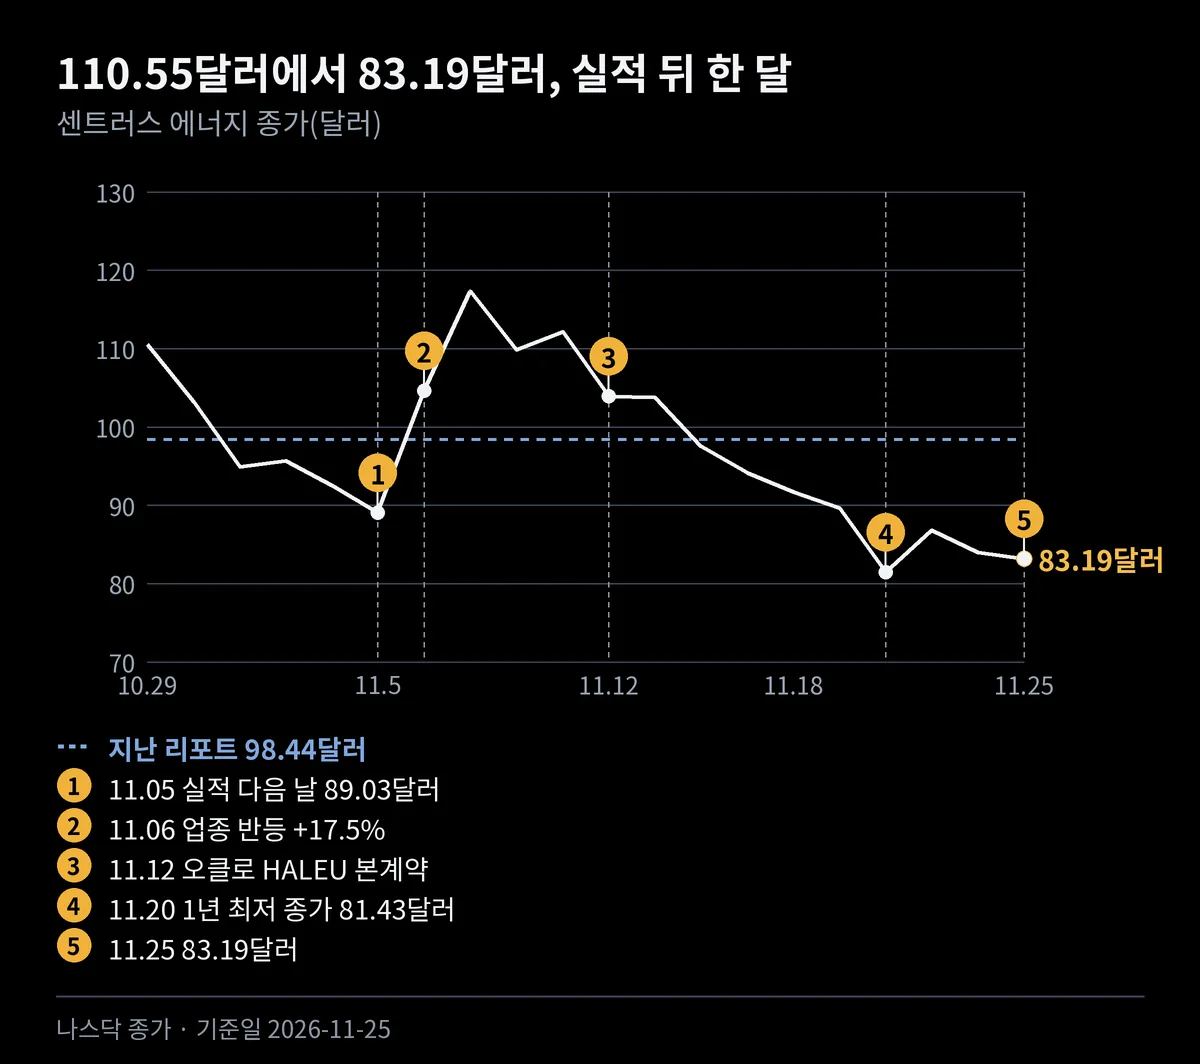
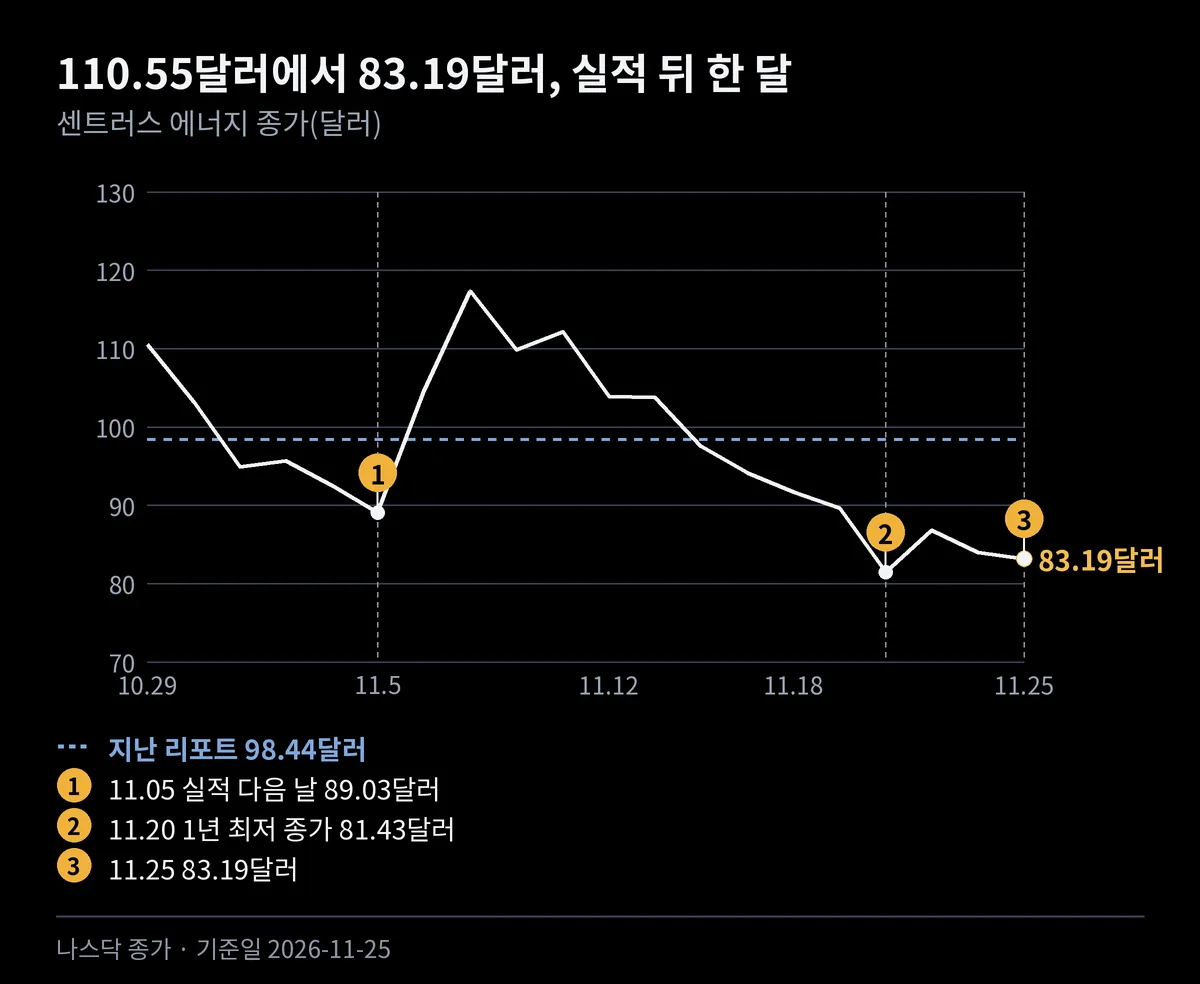
리포트: leu-2026-11 모델 심사 반영(정의·주장 크기·비교 대상), 그림 2 사건 표시 정리
Claude-Session: https://claude.ai/code/session_01DaUBsG9X6bLavyZrFguf5X

diff --git a/content/reports/leu-2026-11.md b/content/reports/leu-2026-11.md
@@ -90,7 +90,7 @@ sources:
 
 이 글은 시청자 요청으로 썼습니다. 요청하신 분은 '우라늄 독점 공급'을 해자로 보고 샀는데 주가가 3분의 1이 됐다며, 그 경쟁력이 아직 유효한지 물으셨습니다. 해자는 성 둘레에 판 물웅덩이처럼, 경쟁자가 쉽게 넘어오지 못하게 막아 주는 회사의 강점을 말합니다. 센트러스의 해자를 기술, 계약, 시간 세 겹으로 나눠 하나씩 확인하겠습니다.
 
-[지난 리포트](/r/leu-2026-10-2/)는 10월 29일 종가 110.55달러를 기준으로 썼습니다. 그 뒤 주가는 24.7% 더 내렸습니다. 지난 예측 성적은 적중 하나, 빗나감 없음입니다. 가장 높게 본 갈래는 '실적이 실망스러우면 반등을 돌려주고 98.44달러를 다시 시험한다'였습니다. 11월 5일 89.03달러로 마감해 그 갈래가 맞았고, 주가는 그 아래로 더 내려갔습니다.
+[지난 리포트](/r/leu-2026-10-2/)는 10월 29일 종가 110.55달러를 기준으로 썼습니다. 그 뒤 주가는 24.7% 더 내렸습니다. 지난 예측 성적은 적중 하나, 빗나감 없음입니다. 지난 리포트는 네 가지 시나리오(갈래)를 적었습니다. 가장 높게 본 갈래는 '실적이 실망스러우면 반등을 돌려주고 98.44달러(10월 26일 기간 최저 종가)를 다시 시험한다'였습니다. 11월 5일 89.03달러로 마감해 그 갈래가 맞았고, 주가는 그 아래로 더 내려갔습니다.
 
 센트러스가 돈을 버는 방식은 두 가지입니다. 하나는 원전 연료인 저농축 우라늄(LEU, 우라늄-235를 5% 안팎으로 농축한 기존 원전 연료)을 전력 회사에 파는 일입니다. 다른 하나는 미국 에너지부 일을 맡는 기술 서비스입니다. 3분기 매출은 5,550만 달러로 1년 전보다 26% 줄었습니다. 순이익 3,160만 달러는 대부분 워런트(정해진 가격에 주식을 살 수 있는 권리) 평가 이익 4,640만 달러에서 나왔습니다. 그 효과를 뺀 회사 기준 조정 순손실은 940만 달러입니다.
 
@@ -100,25 +100,25 @@ sources:
 
 그런데 '미국 유일 공급'이라는 말은 절반만 맞습니다. 미국 땅에서 상업용 농축 공장을 돌리는 곳은 유렌코 USA(유럽 농축 회사 유렌코의 미국 법인)입니다. 뉴멕시코 공장에서 한 해 430만 SWU(분리작업단위, 우라늄을 농축하는 일의 양을 재는 단위)를 만듭니다. 센트러스가 파는 저농축 우라늄은 대부분 직접 만든 것이 아닙니다. 10-Q는 2027년까지 고객에게 넘길 물량의 절반을 훨씬 넘게 러시아 테넥스(TENEX)에서 받는다고 적었습니다.
 
-이번에는 장부 속 계약입니다. 9월 말 수주 잔고는 70억 달러이고 2040년까지 이어집니다. 그중 약 54억 달러는 피케턴에 새 농축 설비를 지어야 효력이 생기는 조건부 판매 약정이고, 51억 달러는 본계약입니다. 11월 12일에는 오클로가 HALEU 본계약을 맺었다고 발표했습니다. 선급금을 넣는 계약이고, 연료 인도는 2029년 시작 예정입니다. 에너지부와는 1월에 9억 달러 과제를 따냈습니다. 2032년 7월까지 HALEU 1톤을 넘기는 고정가 계약이고, 돈은 이정표를 지날 때마다 나옵니다.
+이번에는 장부 속 계약입니다. 9월 말 수주 잔고는 70억 달러이고 2040년까지 이어집니다. 그중 약 54억 달러는 피케턴에 새 농축 설비를 지어야 효력이 생기는 조건부 판매 약정입니다. 그 가운데 51억 달러는 본계약으로 맺었지만, 이것도 공장 건설과 운영 이정표를 지나야 효력이 생깁니다. 11월 12일에는 오클로가 HALEU 본계약을 맺었다고 발표했습니다. 선급금을 넣는 계약이고, 연료 인도는 2029년 시작 예정입니다. 에너지부와는 1월에 9억 달러 과제를 따냈습니다. 2032년 7월까지 HALEU 1톤을 넘기는 고정가 계약이고, 돈은 이정표를 지날 때마다 나옵니다.
 
-같은 서류에는 반대쪽 문장도 있습니다. 에너지부 2027 회계연도 예산안에 지금의 HALEU 운영 계약 추가 자금이 없습니다. 기술 서비스 잔고 약 8억 달러가 여기에 해당하고, 에너지부는 추가 옵션을 쓰지 않겠다고 알려 왔습니다. 1월 과제에서는 기존 원전용 저농축 우라늄 생산 과제를 받지 못했습니다. 그 9억 달러는 프랑스계 오라노에 갔습니다. 계약은 늘었지만, 대부분이 '지으면 받는' 약속이라는 뜻입니다.
+같은 서류에는 반대쪽 문장도 있습니다. 에너지부 2027 회계연도 예산안에 지금의 HALEU 운영 계약 추가 자금이 없습니다. 기술 서비스 잔고 약 8억 달러가 여기에 해당하고, 에너지부는 추가 옵션을 쓰지 않겠다고 알려 왔습니다. 1월 과제에서는 기존 원전용 저농축 우라늄 생산 과제를 받지 못했습니다. 그 9억 달러는 프랑스계 오라노에 갔습니다. 일감은 쌓였지만, 대부분이 '지으면 받는' 약속이라는 뜻입니다.
 
-이 대목은 김박사 월드가 여러 종목에서 본 패턴과 닮았습니다. 이름을 붙이면 '할 수 있다는 했다가 아니다'입니다. 판매 한도가 열린 일곱 종목 가운데 실제로 판 곳은 셋이었습니다. [뉴스케일 파워](/r/smr-2026-11-4/)도 판매 한도만 보고 판다고 본 예측이 빗나갔습니다. 조건부 약정 54억 달러도 같은 눈으로 보면, 공장이 일정대로 지어질 때 비로소 매출이 되는 숫자입니다.
+이 대목은 김박사 월드가 여러 종목에서 본 패턴과 닮았습니다. 이름을 붙이면 '할 수 있다는 했다가 아니다'입니다. 서류로 열린 길과 실제로 일어난 일을 구분하자는 뜻입니다. 주식 판매 한도가 열린 일곱 종목 가운데 실제로 판 곳은 셋이었습니다. 표본은 작습니다. [뉴스케일 파워](/r/smr-2026-11-4/)도 판매 한도만 보고 판다고 본 예측이 빗나갔습니다. 성격은 다르지만 조건부 약정 54억 달러도 같은 눈으로 볼 수 있습니다. 공장이 일정대로 지어질 때 비로소 매출이 되는 숫자입니다.
 
 남은 겹은 시간입니다. 경쟁사들의 공개 목표를 나란히 놓으면 이렇습니다. 레이저 방식의 글로벌 레이저 엔리치먼트(GLE)와 제너럴 매터는 켄터키 퍼듀카에서 2030년 생산을 목표로 합니다. GLE는 10월에 최종 환경영향평가가 나왔고, 허가는 2027년으로 예상합니다. 제너럴 매터는 9월에 허가를 신청했고, 농축 기술은 공개하지 않았습니다. 오라노는 테네시 오크리지에서 2031년 농축 시작을 목표로 합니다. 원자력규제위원회 심사 완료 목표는 2027년 4월에서 6월로 늦춰졌습니다. 유렌코는 지금 짓는 70만 SWU를 2027년에 끝내고, 210만 SWU 새 공장은 2032년 첫 생산이 목표입니다.
 
 ![올해부터 첫 생산 목표까지 남은 해를 보세요. 센트러스의 오클로 인도는 2029년, 가장 가까운 경쟁사 목표는 2030년입니다(회사 발표·업계지 기준)](/static/charts/leu-2026-11-3.webp)
 
-정리하면 센트러스는 앞서 달리는 중이지만, 그 앞섬은 영원한 독점이 아니라 한두 해의 시간 차입니다. 경쟁사 목표가 늦어지면 그 차이는 벌어지고, 센트러스 공장이 늦어지면 좁혀집니다. 그래서 이 해자는 앞으로 나올 공장 일정 숫자로 계속 다시 재야 하는 해자입니다.
+센트러스 새 설비의 상업 생산 시작 날짜는 공시에서 확인하지 못했습니다. 확인되는 가장 가까운 날짜는 오클로 인도 시작인 2029년입니다. 그래서 실물은 앞서 있어도, 그 차이는 영원한 독점이 아니라 한두 해 정도로 보는 편이 맞습니다. 경쟁사 목표가 늦어지면 그 차이는 벌어지고, 센트러스 공장이 늦어지면 좁혀집니다. 그래서 이 해자는 앞으로 나올 공장 일정 숫자로 계속 다시 재야 하는 해자입니다.
 
-그러면 주가는 왜 이렇게 내렸을까요. 지난 리포트 뒤 19거래일만 보면 회사보다 업종 이야기가 큽니다. 같은 기간 우라늄 펀드(URA)는 22.4%, 광산 회사 카메코는 26.3% 내렸습니다. 센트러스는 평소 나스닥 100 펀드(QQQ)보다 약 2.4배 크게 움직였습니다(평소 민감도). 그 민감도로 예상한 하락과 실제 하락 24.7%의 차이는 평소 흔들림 안입니다. 원전과 우라늄 주식이 함께 내린 구간이었다는 뜻입니다.
+그러면 주가는 왜 이렇게 내렸을까요. 지난 리포트 뒤 19거래일만 보면 회사보다 업종 이야기가 큽니다. 같은 기간 우라늄 펀드(URA)는 22.4%, 광산 회사 카메코는 26.3% 내렸습니다. 센트러스는 평소 나스닥 100 펀드(QQQ)보다 약 2.4배 크게 움직였습니다(평소 민감도). 그 민감도로 예상한 하락과 실제 하락 24.7%의 차이는 평소 흔들림 안입니다. 업종과 비슷하게 움직였다는 뜻이고, 회사 고유 요인이 얼마인지는 이 계산으로 가려지지 않습니다.
 
 ![10월 29일 종가를 100으로 놓고 센트러스·카메코·오클로·뉴스케일·우라늄 펀드·QQQ를 나란히 보세요(11월 25일 종가 기준)](/static/charts/leu-2026-11-4.webp)
 
-최고 종가에서부터 세면 그림이 조금 다릅니다. 2025년 10월 15일 뒤 센트러스는 80.9% 내렸습니다. 같은 기간 오클로는 88.7%, 뉴스케일은 93.9% 내렸고, 카메코는 34.1% 내렸습니다. 센트러스 주가는 우라늄 광산보다 매출이 적은 원전 성장주처럼 움직여 왔습니다. 시장 분위기는 여전히 거칩니다. 11월 25일 변동성 지수(VIX)는 28.29였고, 미 국채 10년 금리는 4.85%였습니다.
+최고 종가에서부터 세면 그림이 조금 다릅니다. 2025년 10월 15일 뒤 센트러스는 80.9% 내렸습니다. 같은 기간 오클로는 88.7%, 뉴스케일은 93.9% 내렸고, 카메코는 34.1% 내렸습니다. 낙폭은 카메코보다 오클로·뉴스케일에 가까웠습니다. 시장 분위기는 여전히 거칩니다. 11월 25일 변동성 지수(VIX)는 28.29였고, 미 국채 10년 금리는 4.85%였습니다.
 
-이런 자리는 처음이 아닙니다. 2018년부터 센트러스가 1년 최저 종가를 새로 쓴 날 46번을 셌습니다. 20거래일 뒤 그날보다 높았던 경우는 21번으로, 절반에 조금 못 미칩니다. 이번 하락 구간은 9월 중순부터 1년 최저 종가를 18번 새로 쓸 만큼 길었습니다. 2018년 여름에도 비슷하게 긴 구간이 있었고, 그때는 마지막 최저 뒤 석 달쯤 지나 더 높은 자리에 있었습니다.
+이런 자리는 처음이 아닙니다. 1년 최저 종가는 직전 1년(약 252거래일) 가운데 가장 낮은 종가를 말합니다. 2018년부터 센트러스가 이 값을 새로 쓴 날 46번을 셌습니다. 20거래일 뒤 그날보다 높았던 경우는 21번으로, 절반에 조금 못 미칩니다. 이번 하락 구간은 9월 중순부터 1년 최저 종가를 18번 새로 쓸 만큼 길었습니다. 2018년 여름에도 비슷하게 긴 구간이 있었고, 그때는 마지막 최저 뒤 석 달쯤 지나 더 높은 자리에 있었습니다.
 
 ![1년 최저 종가를 새로 쓴 날 46번, 20거래일 뒤 어디에 있었는지 세어 보세요(2018~2026년 나스닥 종가 기준)](/static/charts/leu-2026-11-5.webp)
 
@@ -126,17 +126,17 @@ sources:
 
 아닌 쪽에도 근거 셋이 있습니다. 첫째, 일감의 대부분이 공장을 지어야 받는 조건부 약정입니다. 둘째, 에너지부의 HALEU 운영 자금이 끊기고, 저농축 우라늄 과제는 경쟁사에 갔습니다. 셋째, 지금 매출의 상당 부분이 러시아 공급에 기대 있습니다. 10-Q는 2026·2027년 추가 수입 허가 신청 결과가 정해지지 않았고, 다른 공급원으로는 테넥스 물량을 대신하기에 부족하다고 적었습니다. 11월 2일에는 자동 효력 일괄 신고서 S-3ASR(큰 회사가 내면 바로 효력이 생기는 일괄 신고서)도 냈습니다. 금액을 정하지 않고 앞으로 증권을 팔 수 있게 창구를 여는 서류입니다. 11월 25일까지 실제 판매 서류는 없었습니다.
 
-그래서 요청하신 질문에는 이렇게 답할 수 있습니다. 기술 해자는 아직 유효합니다. 미국 기술로 HALEU를 만든 곳은 여전히 센트러스 하나입니다. 계약 해자는 커졌지만 대부분 조건부입니다. 시간 해자는 한두 해 차이이고 경쟁사가 넷입니다. 결국 오래 들고 가는 판단은 '독점'보다 '피케턴 공장이 경쟁사보다 먼저, 정해진 돈으로 지어지는가'에 걸려 있습니다.
+그래서 요청하신 질문에는 이렇게 답할 수 있습니다. 기술 해자는 아직 유효합니다. 미국 기술로 HALEU를 만든 곳은 여전히 센트러스 하나입니다. 계약 해자는 일감이 쌓였지만 대부분 조건부입니다. 시간 해자는 한두 해 차이이고 경쟁사가 넷입니다. 결국 오래 들고 가는 판단은 '독점'보다 '피케턴 공장이 경쟁사보다 먼저, 정해진 돈으로 지어지는가'에 걸려 있습니다.
 
 그 답이 나오는 첫 날짜는 12월 7일입니다. 센트러스는 그날 피케턴 공장에서 투자자의 날을 엽니다. 증설 일정과 비용, 생산 계획 숫자가 나오는지가 첫 확인 신호입니다. 같은 주 12월 9일에는 FOMC(미국 연방공개시장위원회, 금리 회의)가 있습니다. 이 판단의 무게를 숫자로 나누려고 12월 24일 종가(11월 25일에서 20거래일째)에 네 갈래를 걸었습니다. 11월 25일 종가 83.19달러는 1년 최저 종가 81.43달러 바로 위, 두 번째 갈래 '지금 자리'에 있습니다.
 
 ![12월 24일 종가 자리로 나눈 네 갈래입니다. 가장 무거운 갈래도 약 35%입니다(12월 24일 판정)](/static/charts/leu-2026-11-6.webp)
 
-가능성은 주가 확률이 아니라, 과거 기록에 이번 조건을 더한 주관적 추정입니다. 가장 무거운 갈래는 70.71~81.43달러, 1년 최저 아래로 한 번 더 내려가는 자리(약 35%)입니다. 1년 최저 종가 기록에서 이 칸이 46번 중 17번으로 가장 많았고, 여기서 출발했습니다. 김박사 월드가 지난 리포트들에서 '어떤 가격선을 지킨다'고 본 예측 네 번이 모두 빗나간 기록도 반영했습니다. 이 추정이 틀린다면 가장 큰 이유는 투자자의 날입니다. 공장 일정이나 새 계약 숫자가 나오면, 11월 6일 하루 17.5% 오른 날처럼 업종과 함께 크게 오를 수 있습니다.
+가능성은 주가 확률이 아니라, 과거 기록에 이번 조건을 더한 주관적 추정입니다. 가장 무거운 갈래는 70.71~81.43달러, 1년 최저 아래로 한 번 더 내려가는 자리(약 35%)입니다. 1년 최저 종가 기록에서 이 칸이 46번 중 17번으로 가장 많았고, 여기서 출발했습니다. 칸마다 출발한 빈도와 조정한 폭은 끝 부록 네 갈래 표 아래에 적었습니다. 이 추정이 틀린다면 가장 큰 이유는 투자자의 날입니다. 공장 일정이나 새 계약 숫자가 나오면 크게 오를 수 있습니다. 11월 6일에도 오클로·뉴스케일과 함께 하루 17.5% 오른 적이 있습니다.
 
 가장 큰 위험은 셋입니다. 하나는 러시아 공급입니다. 허가가 늦거나 막히면 2027년까지의 판매가 흔들립니다. 둘은 공장 비용입니다. 올해 설비 투자 전망만 3억 5,000만~5억 달러이고, 판매 창구가 열려 있습니다. 셋은 정부 자금입니다. HALEU 운영 자금은 이미 예산안에서 빠졌고, 새 과제는 의회 예산이 있어야 나옵니다.
 
-정리하면 센트러스는 미국 기술 HALEU라는 진짜 강점을 가졌지만, 그 강점이 매출이 되려면 공장을 먼저 지어야 하는 회사입니다. 경쟁사들의 목표가 2030~2032년에 몰려 있기 때문에, 오래 들고 가는 판단은 그 전에 센트러스 공장이 계획대로 돌아가는지에 기대게 됩니다. 결정은 각자의 몫이며, 이 영상과 리포트는 판단 근거를 정리한 교육용 자료입니다. 다음 갱신은 12월 7일 투자자의 날 숫자가 나온 뒤, 늦어도 12월 24일 판정 뒤입니다.
+경쟁사들의 목표가 2030~2032년에 몰려 있기 때문에, 오래 들고 가는 판단은 그 전에 센트러스 공장이 계획대로 돌아가는지에 기대게 됩니다. 그 첫 숫자는 12월 7일, 첫 채점은 12월 24일입니다. 결정은 각자의 몫이며, 이 영상과 리포트는 판단 근거를 정리한 교육용 자료입니다. 다음 갱신은 12월 7일 투자자의 날 숫자가 나온 뒤, 늦어도 12월 24일 판정 뒤입니다.
 
 ## 숫자로 다시 보기
 
@@ -243,6 +243,8 @@ sources:
 | **3 · 조달이 상쇄**<br>발표 뒤 5거래일 15% 안팎 하락 | **[안 일어남]**<br>판매 서류 없음 |
 | **4 · 98.44달러 아래로**<br>11월 24일 | **[일어남]**<br>84.04달러 |
 
+- 11월 25일 종가 83.19달러는 98.44달러보다 15.5% 낮고, 1년 최저 종가 81.43달러는 98.44달러보다 17.3% 낮습니다
+
 ### 앞으로 일어날 수 있는 일
 
 1년 최저 종가 46번 중 17번은 20거래일 뒤 70.71~81.43달러에 해당하는 자리(-15%에서 -2.1% 사이)였고, 이 기록에서 출발했습니다. 아래 가능성은 그 기록에서 출발해 분석자가 주관적으로 매긴 추정이며, 주가가 오를 확률이 아닙니다. 네 갈래는 겹치지 않아 더하면 100%입니다(기준 11월 25일 종가 83.19달러).
@@ -253,6 +255,9 @@ sources:
 | 2 · 지금 자리 | 12월 24일 종가 81.43~91.51달러 | 낮음 약 20%<br>(15~25%) |
 | **3 · 1년 최저 아래** | 12월 24일 종가 70.71~81.43달러 | 높음 약 35%<br>(30~40%) |
 | 4 · 15% 넘게 아래 | 12월 24일 종가 70.71달러 아래 | 낮음 약 20%<br>(15~25%) |
+
+- 출발 빈도(46번 기준): 1칸 14번 · 2칸 8번 · 3칸 17번 · 4칸 7번
+- 조정: '가격선을 지킨다' 예측 네 번이 모두 빗나간 기록으로 4칸 +5%p · 1칸 -5%p, 투자자의 날로 2칸 +3%p · 3칸 -2%p
 
 ### 핵심 확인 세 가지
 - 1순위: 12월 7일 투자자의 날 — 증설 일정·비용·생산 계획 숫자
